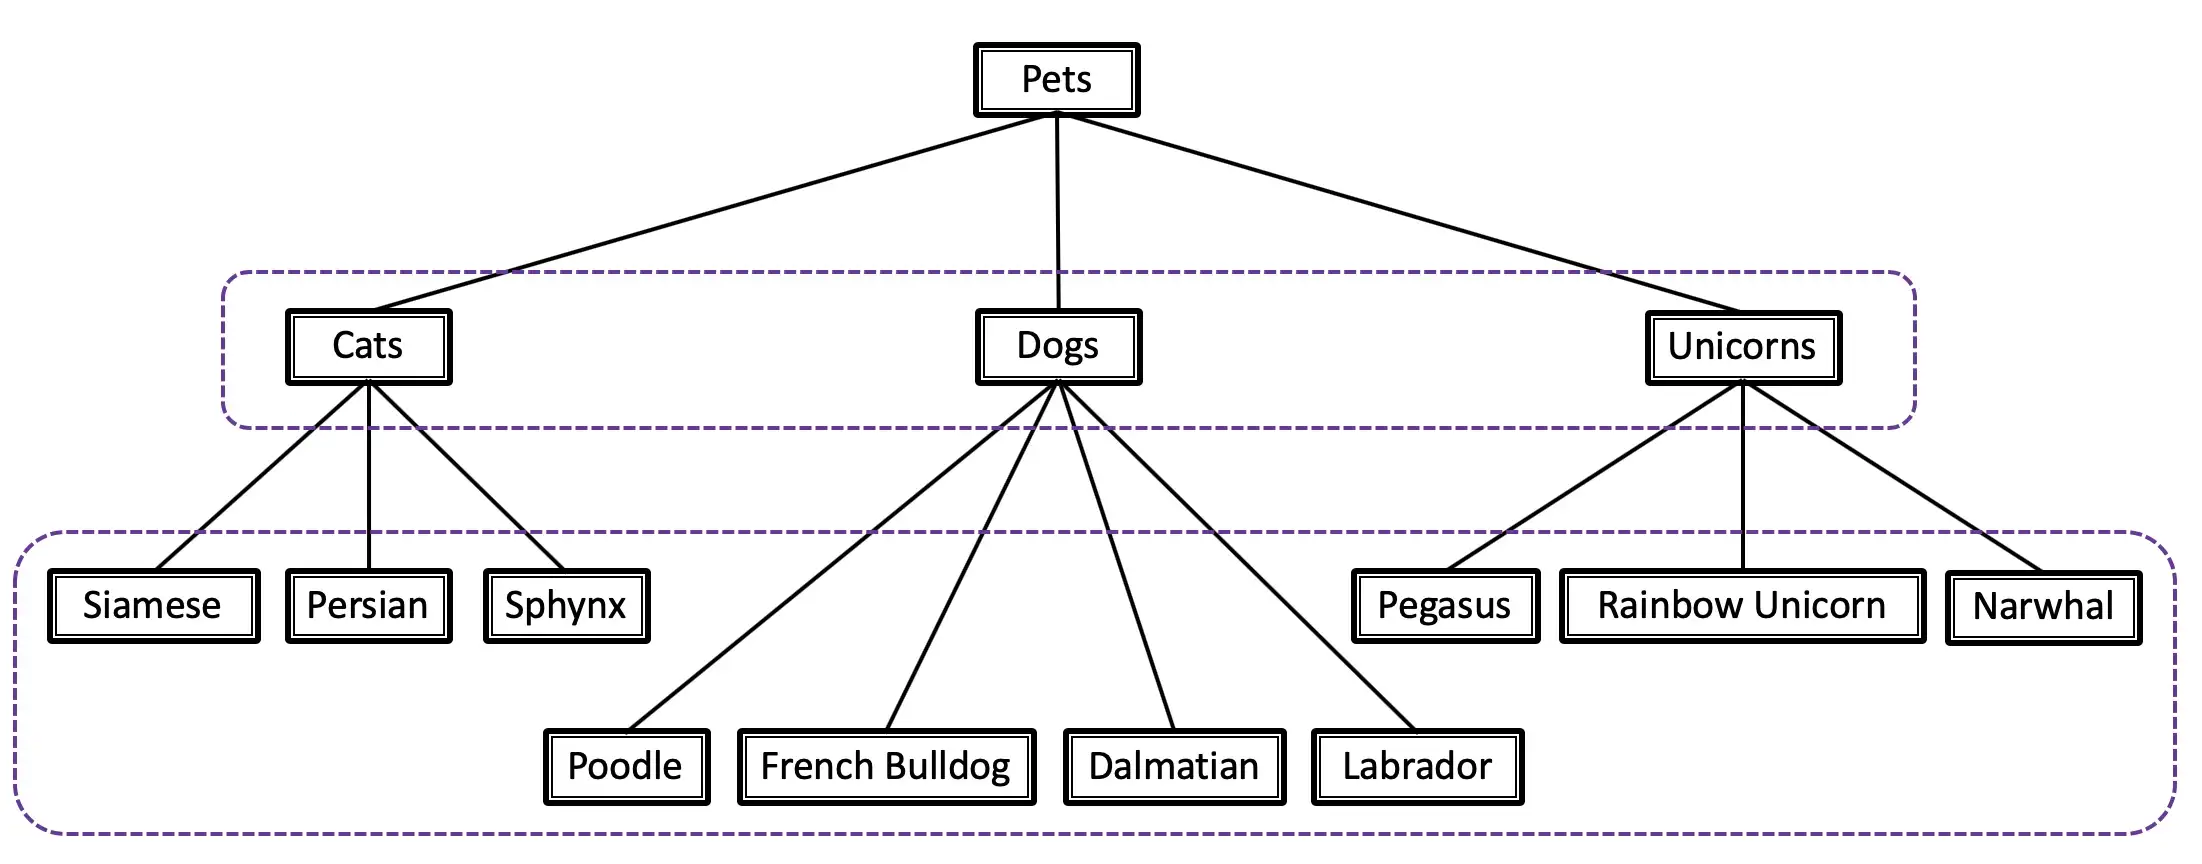
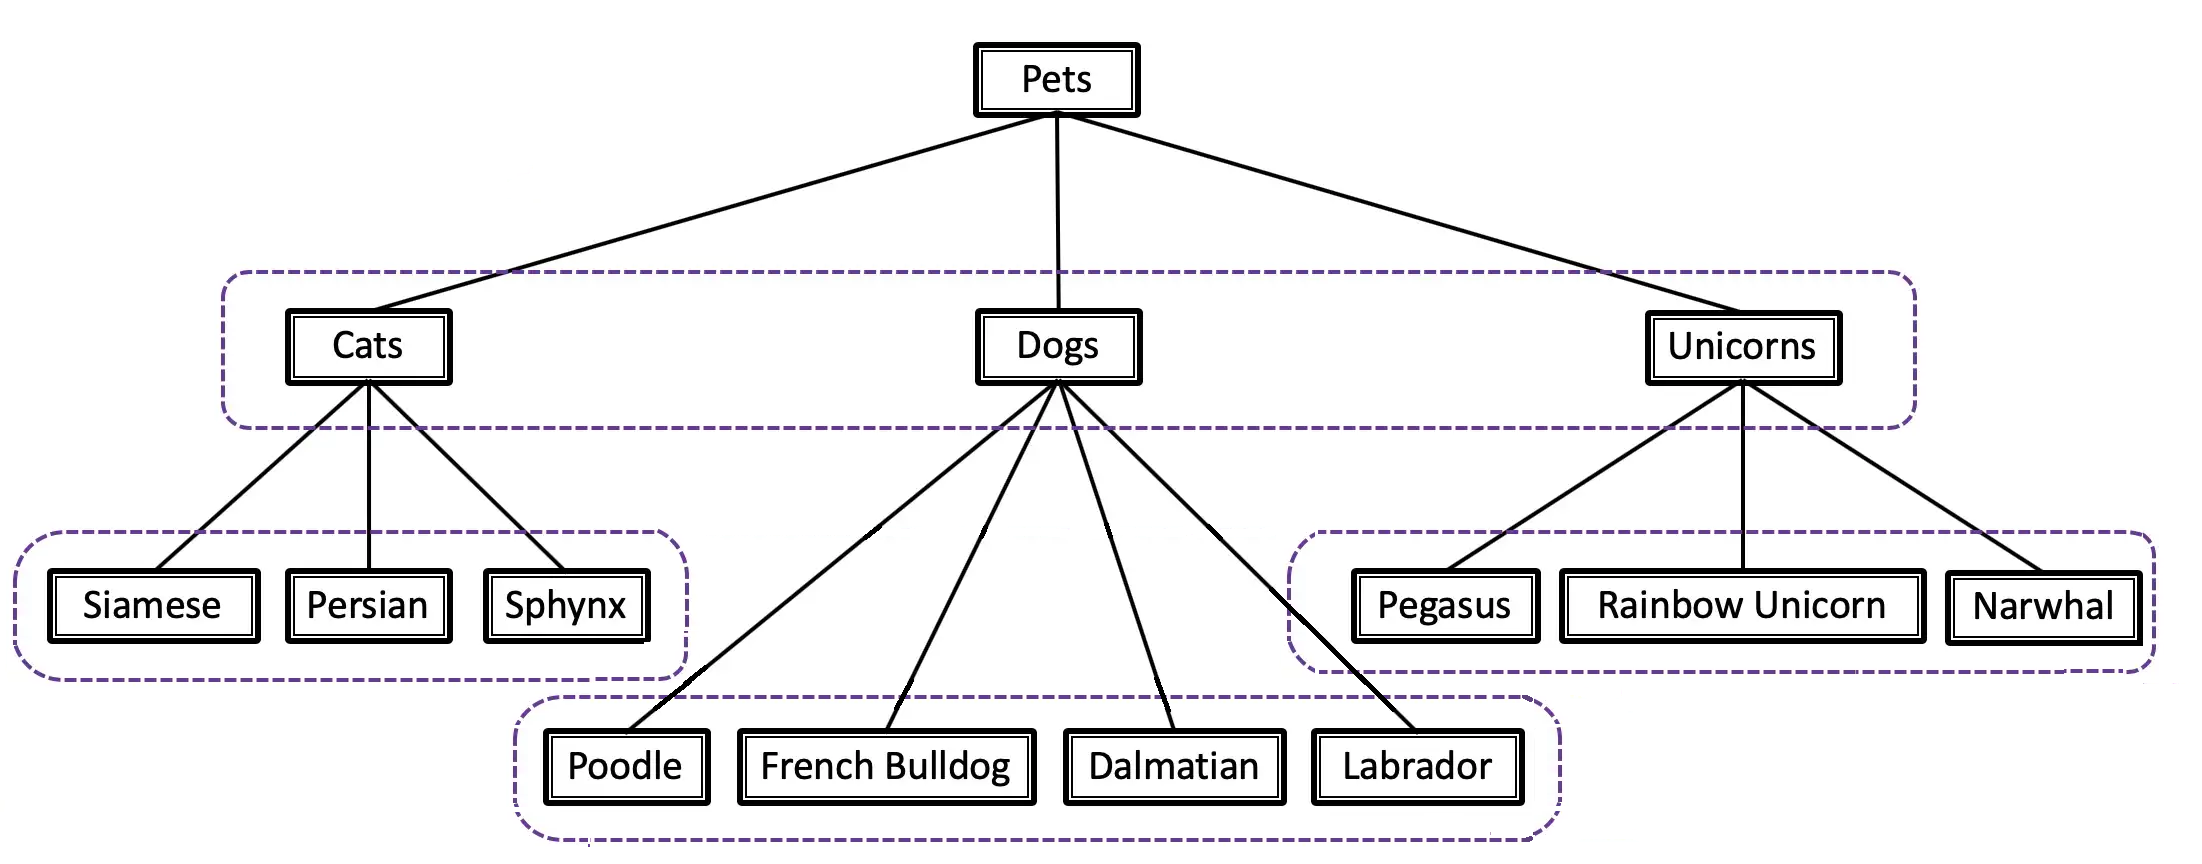
changed image. Fixed resolution. Rewrite hierarchical classification algorithm description.

diff --git a/docs/source/explanation/Main_algorithms/classification/hierarhical_classification.rst b/docs/source/explanation/Main_algorithms/classification/hierarhical_classification.rst
@@ -80,17 +80,12 @@ We use the same model templates as for multi-class Classification. Please, refer
 Supervised Incremental Learning
 *******************************
 
-We solve this task by assigning a separate head for each label group on each hierarchical level. Concretely, we have two types of label groups:
-
-- **Exclusive label group**, where the classifier solves multi-class classification problem and assigns only one label from the tree level.\
-
-- **Inclusive label group**, where the classifier solves multi-label classification problem and can assign multiple labels from the tree level.
+| We solve this task by assigning a separate head for each label group on each hierarchical level. Spicifically, we have a classifier that solves multi-class classification problem and assigns one label from the given exclusive label group.
+| To have inclusive label group we can construct single-label exclusive groups for every label and each of them will be handled by an individual binary classifier.
+| In this fashion, we train different classifiers, one - for each label group. We use the same training strategy as for :doc:`multi_class_classification` task.
 
 
-In this fashion, we train different classifiers, one - for each tree level. We use the same training strategy as for :doc:`multi_class_classification` task.
-
-
-| In the inference stage, we traverse the tree from head to leaves and obtain labels predicted by the corresponding classifier.
+| At the inference stage, we traverse the tree from head to leaves and obtain labels predicted by the corresponding classifier.
 | Let's say we forward an image with the label tree pictured in the above section. On the first level, our corresponding classifier returns 3 predictions.
 | We perform an *argmax* operation and obtain, for example, class ``Cats``. Then, we choose a classifier related to ``{Siamse, Persian, Sphynx}`` label group, obtain its predictions, and after performing the *argmax* operation we choose our last leaf label.
 | After that, we can easily reconstruct the final predicted tree branch: ``Persian -> Cats -> Pets``.

diff --git a/docs/source/explanation/Main_algorithms/classification/multi_label_classification.rst b/docs/source/explanation/Main_algorithms/classification/multi_label_classification.rst
@@ -6,7 +6,7 @@ Dataset format
 **************
 
 As it is a common practice to use object detection datasets in the academic area, we support the most popular object detection formats: `COCO <https://cocodataset.org/#format-data>`_ and `VOC <http://host.robots.ox.ac.uk/pascal/VOC/>`_.
-Concretely, these formats will be converted in our internal representation via the `Datumaro <https://github.com/openvinotoolkit/datumaro>`_ dataset handler.
+Specifically, these formats will be converted in our internal representation via the `Datumaro <https://github.com/openvinotoolkit/datumaro>`_ dataset handler.
 
 We also support our custom and simple dataset format for multi-label classificaiton. It has the following structure:
 
@@ -64,7 +64,7 @@ For supervised learning we use the following algorithms components:
 
 - Additionally, we use `No Bias Decay (NBD) <https://arxiv.org/abs/1812.01187>`_ technique, **Exponential Moving Average (EMA)** for the model's weights and adaptive **early stopping** to add adaptability and prevent overfitting.
 
-In the table below the mAP on some academic datasets is presented. The results were obtained on our templates without any changes. We use 480x480 image resolution to make results comparable with academic papers, for other hyperparameters, please, refer to the related template. We train all models on 1 GPU Nvidia GeForce GTX3090.
+In the table below the `mAP <https://en.wikipedia.org/w/index.php?title=Information_retrieval&oldid=793358396#Average_precision>` on some academic datasets is presented. The results were obtained on our templates without any changes. We use 448x448 image resolution to make results comparable with academic papers, for other hyperparameters, please, refer to the related template. We train all models on 1 GPU Nvidia GeForce GTX3090.
 
 +-----------------------+-----------------+-----------+-----------+-----------+
 | Model name            | Pascal-VOC 2007 |    COCO   |   VG500   | NUS-WIDE  |

diff --git a/docs/source/explanation/Main_algorithms/classification/multi_class_classification.rst b/docs/source/explanation/Main_algorithms/classification/multi_class_classification.rst
@@ -76,9 +76,9 @@ For the supervised training we use the following algorithms components:
 - ``Loss function``: `Influence-Balanced Loss <https://arxiv.org/abs/2110.02444>`_. This is a balancing training method that helps us to solve the imbalanced data problem.
 
 - Additionaly, we use `No Bias Decay (NBD) <https://arxiv.org/abs/1812.01187>`_ technique and **early stopping** to add adaptability to the training pipeline and prevent overfitting.
-To further enhance the performance of the algorithm in case when we have a small number of data we use `Supervised Contrastive Learning <https://arxiv.org/abs/2004.11362>`_. More concretely, we train a model with two heads: classification head with Influence-Balanced Loss and SupCon head with `Barlow Twins loss <https://arxiv.org/abs/2103.03230>`_.
+To further enhance the performance of the algorithm in case when we have a small number of data we use `Supervised Contrastive Learning <https://arxiv.org/abs/2004.11362>`_. More specifically, we train a model with two heads: classification head with Influence-Balanced Loss and SupCon head with `Barlow Twins loss <https://arxiv.org/abs/2103.03230>`_.
 
-In the table below the top-1 accuracy on some academic datasets is presented. The results were obtained on our templates without any changes. We use 240x240 image resolution, for other hyperparameters, please, refer to the related template. We train all models on 1 GPU Nvidia GeForce GTX3090.
+In the table below the top-1 accuracy on some academic datasets is presented. The results were obtained on our templates without any changes. We use 224x224 image resolution, for other hyperparameters, please, refer to the related template. We train all models on 1 GPU Nvidia GeForce GTX3090.
 
 +-----------------------+-----------------+-----------+-----------+-----------+-----------+
 | Model name            | CIFAR100        |cars       |flowers    | pets      |SVHN       |
